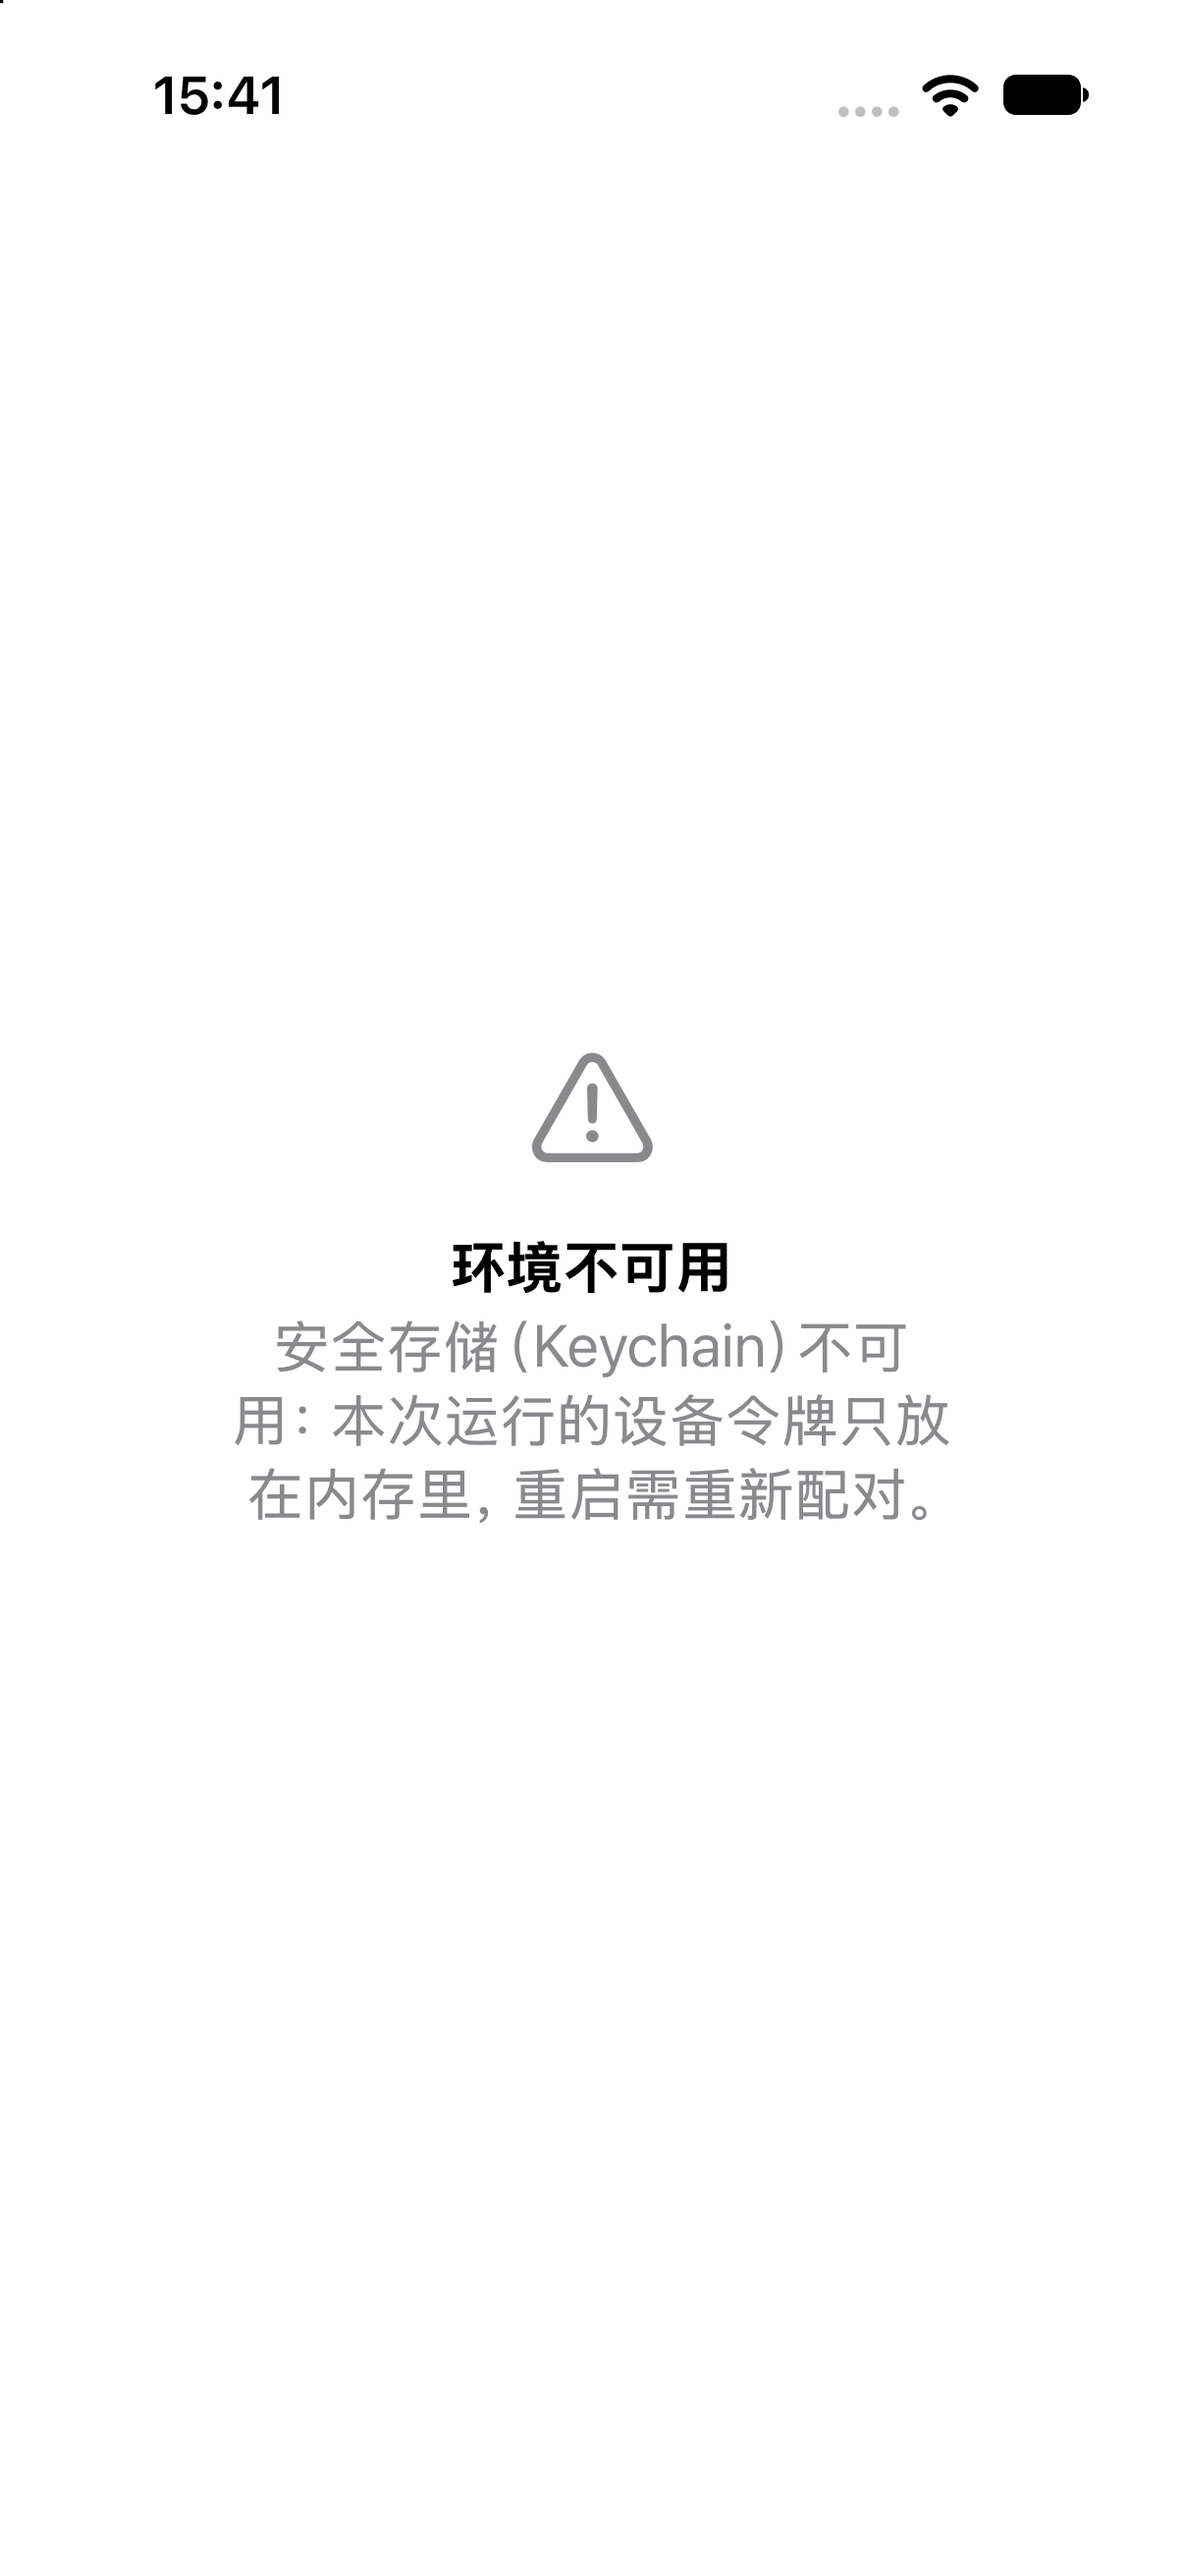
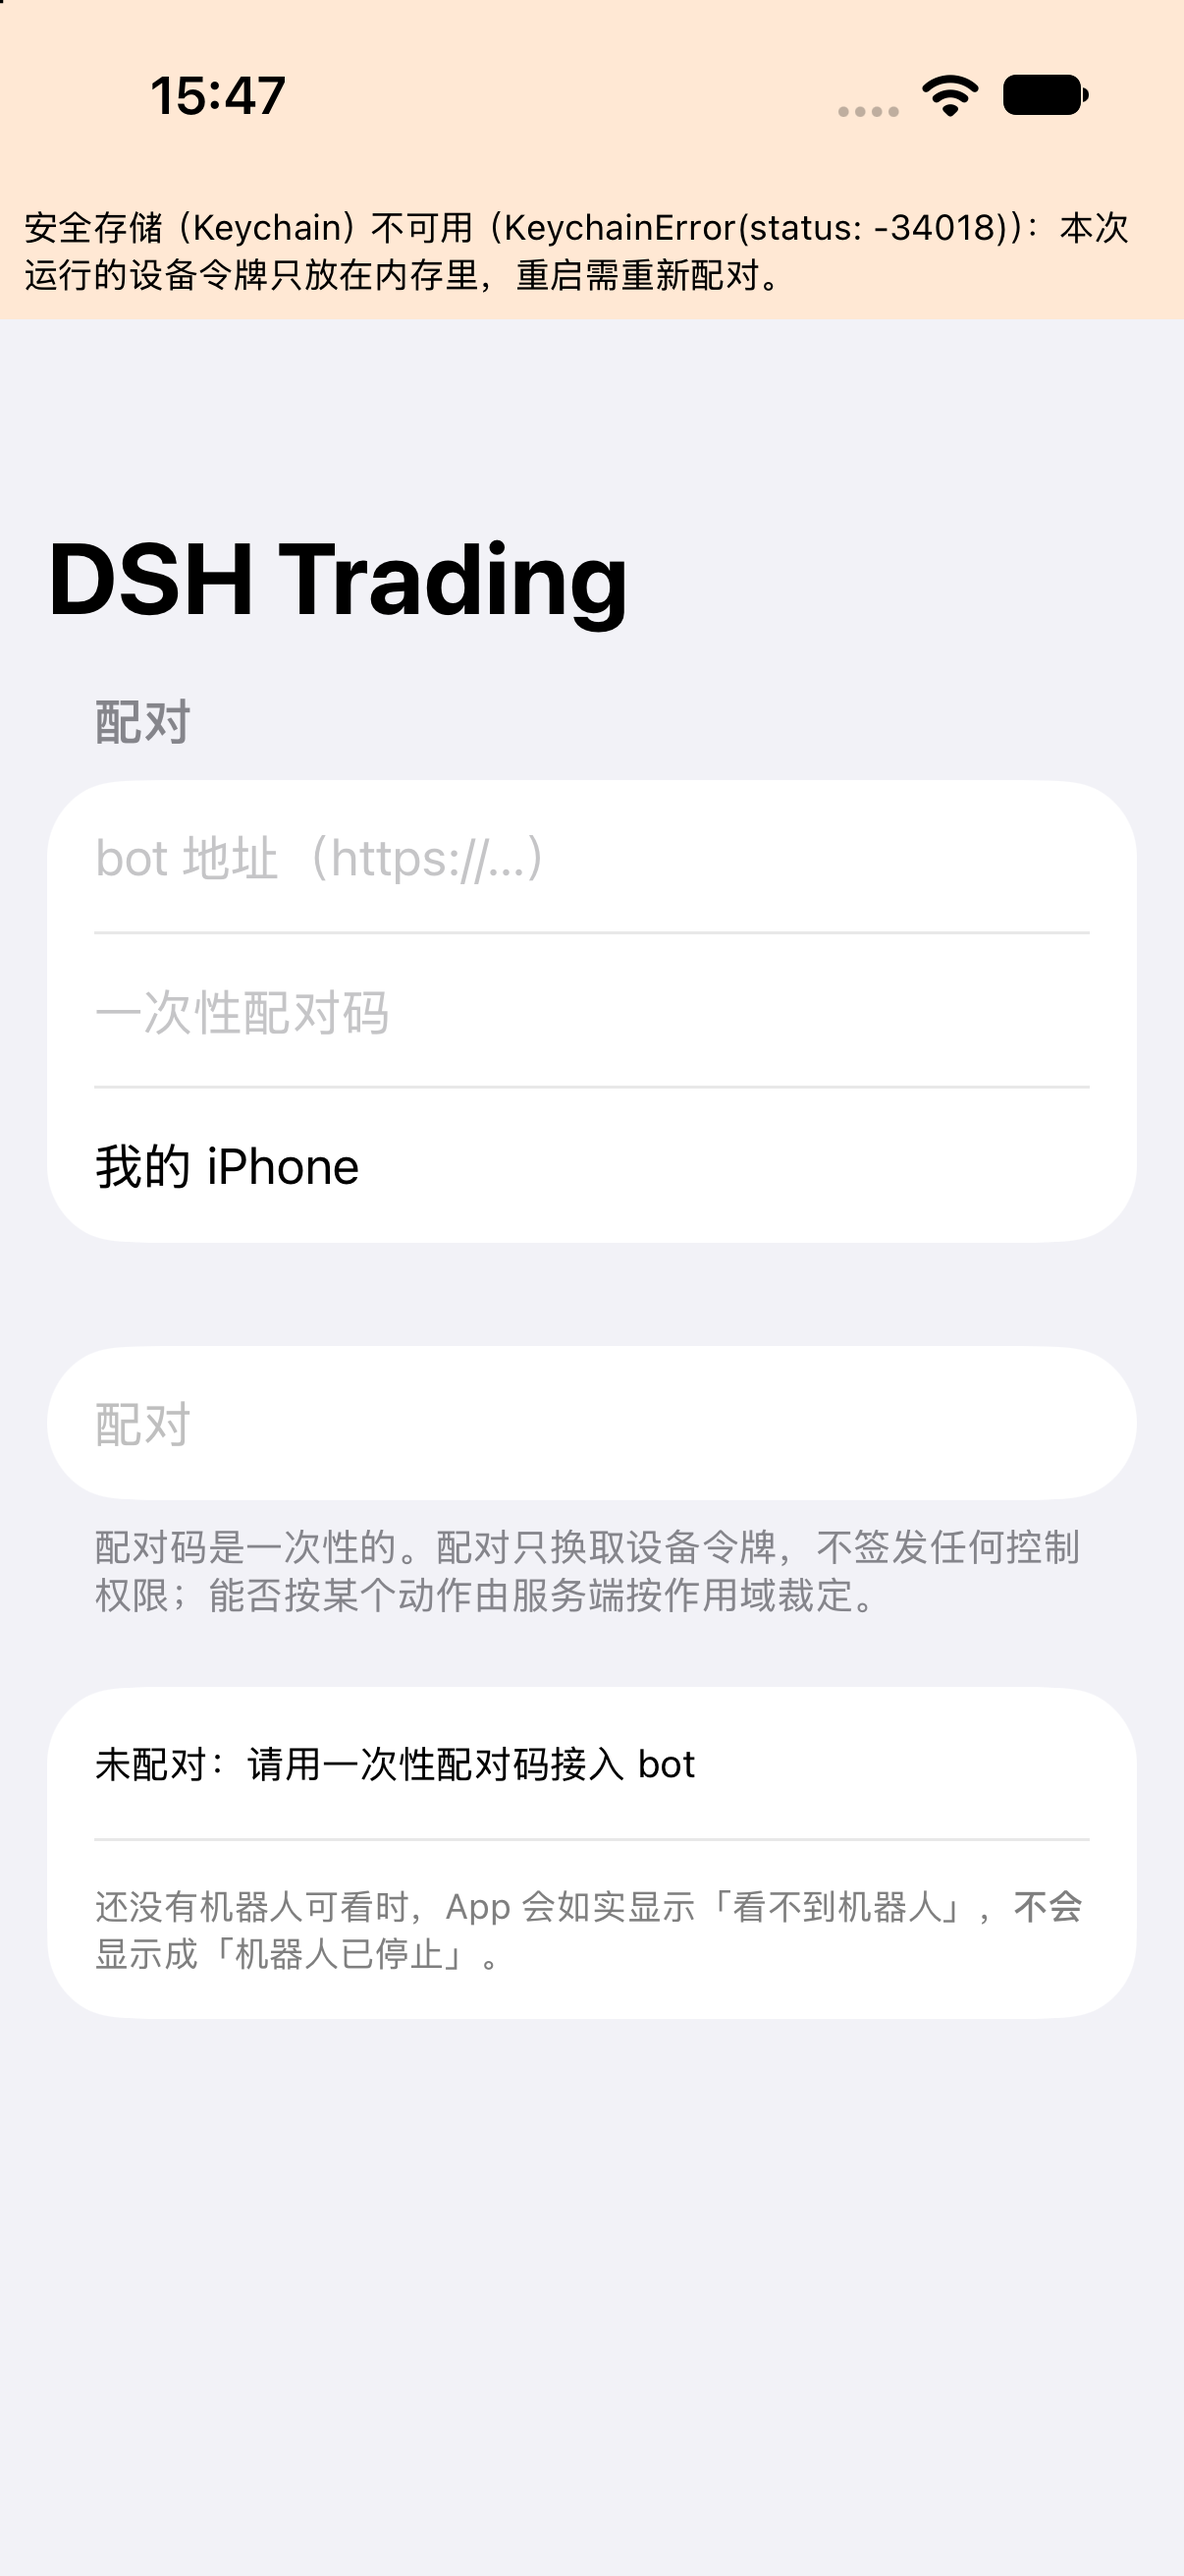
fix(ios-native): 组合根降级语义、UTF-16 长度等价与文档去写死计数
- Keychain 不可用拆成 environmentProblem(致命)/environmentWarning(降级)：内存回退不再挡住 fixtures 与观测面
  （实测横幅 KeychainError -34018 errSecMissingEntitlement，CODE_SIGNING_ALLOWED=NO 无 entitlement）
- 卡片侧长度判定改用 utf16.count 以贴合 TS String.length，补边界向量
- Owning Note / current-state / mobile-app-plan / README 去掉写死计数（改指向可复核生成器）

diff --git a/apps/ios-native/Sources/App/AppEnvironment.swift b/apps/ios-native/Sources/App/AppEnvironment.swift
@@ -98,13 +98,10 @@ public final class AppEnvironment {
     // MARK: - 装配
 
     private func rebuildStore() {
-        guard let session else {
-            store = nil
-            dispatcher = nil
-            return
-        }
         switch mode {
         case .fixtures:
+            // **显式判据**：fixtures 不依赖任何凭据/安全存储 —— 没有 session 也照样装配观测面。
+            // 不靠"Keychain 恰好可用"这种巧合（Lead 裁决 #2）。
             let source = OfflineObservationSource(
                 fetcher: FixtureSnapshotFetcher(clock: clock),
                 persistence: persistence,
@@ -116,7 +113,9 @@ public final class AppEnvironment {
             self.store = store
             self.dispatcher = StoreActionDispatcher(store: store, gate: gate)
         case .live:
-            guard let client = session.apiClient() else {
+            // 生产路径**不放宽 fail-closed**：没有令牌就没有 api client，也就不发匿名请求，
+            // 界面停在配对门（Lead 裁决 #3）。
+            guard let session, let client = session.apiClient() else {
                 store = nil
                 dispatcher = nil
                 return
@@ -142,12 +141,27 @@ public final class AppEnvironment {
         mode == .fixtures ? .simulated : .unknown
     }
 
-    /// 能不能进观测面。**告警不算故障**：Keychain 退回内存只影响"重启后要不要重新配对"，
-    /// 不该把 fixtures 模式（根本不需要令牌）一起挡在门外（IOS-3 在模拟器上实测到过这个缺陷）。
+    /// 能不能进观测面。**告警不算故障**：Keychain 退回内存只影响"重启后要不要重新配对"。
+    /// fixtures 走**显式判据**（只看观测面装配没有，凭据类问题一律不挡）；live 仍要求"已配对 + 有观测源"。
     public var isObserving: Bool {
-        if environmentProblem != nil { return false }
         if mode == .fixtures { return store != nil }
+        if environmentProblem != nil { return false }
         return sessionState.isPaired && store != nil
+    }
+
+    /// 真正**挡路**的故障。fixtures 模式不依赖令牌 ⇒ 任何凭据/存储问题都不挡它（显式判据，不靠巧合）。
+    public var blockingProblem: String? {
+        mode == .fixtures ? nil : environmentProblem
+    }
+
+    /// 顶部横幅：降级告警；fixtures 下连"本来会致命"的凭据问题也只提示、不挡路。
+    public var notices: [String] {
+        var list: [String] = []
+        if let environmentWarning { list.append(environmentWarning) }
+        if mode == .fixtures, let environmentProblem {
+            list.append("夹具模式不依赖设备令牌，已忽略凭据问题：" + environmentProblem)
+        }
+        return list
     }
 
     public func refresh() async {

diff --git a/apps/ios-native/Sources/App/DshTradingNativeApp.swift b/apps/ios-native/Sources/App/DshTradingNativeApp.swift
@@ -25,12 +25,12 @@ struct AppRootView: View {
 
     var body: some View {
         VStack(spacing: 0) {
-            if let problem = environment.environmentProblem {
+            if let problem = environment.blockingProblem {
                 EnvironmentProblemView(message: problem)
             } else {
-                // 告警只提示，不挡路（Keychain 退回内存 ≠ 不能用）。
-                if let warning = environment.environmentWarning {
-                    WarningBanner(message: warning)
+                // 告警只提示，不挡路（Keychain 退回内存 ≠ 不能用；fixtures 更不依赖令牌）。
+                ForEach(environment.notices, id: \.self) { notice in
+                    WarningBanner(message: notice)
                 }
                 if environment.isObserving {
                     ObservationRootView(environment: environment)

diff --git a/docs/current-state.md b/docs/current-state.md
@@ -18,7 +18,7 @@
 | 额度上限 | mandate 侧已成**可执行判据**：缺声明 / Infinity / NaN ⇒ 拒绝开新仓（code=no-declared-limit）；0 是合法声明；只约束新增风险 |
 | 凭据语义 | connector-okx：**存在 credentials seam 即 fail-closed**（不再回落 ambient 环境变量）；仅完全无 seam 时回落 process.env |
 | 驾驶舱 | packages/cockpit：**独立 SPA**（零依赖、不复用 client-ui-*），由 bot 的 edge 行托管；只调 /v1/cards 与 /v1/commands |
-| 移动端（观测端，iOS 原生） | **apps/ios-native**（XcodeGen 生成的独立 Xcode 工程，不进 pnpm workspace）：契约等价实现 + 121 条行为向量 + **35 例 XCTest 机检**（改错必红）；六个分层 scheme 全绿、冷构建 BUILD SUCCEEDED；CI 跑两条纯 Node 门禁（防漂移 + 分层白名单）。见 apps/ios-native/README.md |
+| 移动端（观测端，iOS 原生） | **apps/ios-native**（XcodeGen 生成的独立 Xcode 工程，不进 pnpm workspace）：契约等价实现 + 行为向量 + **XCTest 机检**（向量/用例数随契约扩展，不写死；改错必红）；六个分层 scheme 全绿、冷构建 BUILD SUCCEEDED；CI 跑两条纯 Node 门禁（防漂移 + 分层白名单）。见 apps/ios-native/README.md |
 | 移动端（Expo/RN 旧工程） | apps/mobile（独立 npm 工程）：契约 ./core 入口 + 配对 + SecureStore + 首屏流程；60 例测试 + Metro 真打包 599 modules。（与原生侧**并存**，去留待裁决）|
 | systemd 台架 | scripts/systemd-units-check.mjs（六类静态判据，退出码即结论）+ 人执行安装清单（deploy/README.md）。**本机无 systemd，安装未做** |
 | 假刹车修复 | edge kill 状态写 0o640（组可读）+ 读取端仅 ENOENT 视为未 kill（EACCES/坏 JSON ⇒ 已 kill 且已暂停）；复现 `pnpm --filter @dshtrading/tradectl exec vitest run test/edge.test.ts test/degradation.test.ts`（38 例，含 chmod 000 端到端）|
@@ -52,7 +52,7 @@
     pnpm wiring:ledger                                        # 工厂接线台账
     node scripts/systemd-units-check.mjs                      # 单元静态校验（退出码即结论）
     cd apps/mobile && npx vitest run && npx tsc --noEmit      # 移动端（Expo/RN）
-    cd apps/ios-native && ./scripts/test-contract.sh          # 移动端（原生）：契约防漂移机检，35 例
+    cd apps/ios-native && ./scripts/test-contract.sh          # 移动端（原生）：契约防漂移机检
     node scripts/ios-native/check-contract-drift.mjs           # 同上判据的纯 Node 版（CI 用）
     node scripts/ios-native/check-swift-layering.mjs           # Swift 分层白名单（含 Domain 的 Observation 宏）
 

diff --git a/docs/client/mobile-app-plan.md b/docs/client/mobile-app-plan.md
@@ -11,10 +11,10 @@
 - **形态**：由 XcodeGen 从 `project.yml` 生成工程，**独立工程、不进 pnpm workspace**（与 desktop/ 同一先例）；
   **一个子目录 = 一个 framework target**（Contract / Transport / Domain / Features / Alerts / Offline / App），
   层间依赖由**编译器**强制；`*.xcodeproj` / `build` / `Generated` 等生成物不入库。
-- **契约**：Swift 侧是 `packages/contract/src` 的等价实现，由**机检**绑定 —— 生成器导出 121 条行为向量，
-  `DshTradingContractTests` 35 例逐字段/逐向量断言；CI 侧另有两条**纯 Node** 门禁
+- **契约**：Swift 侧是 `packages/contract/src` 的等价实现，由**机检**绑定 —— 生成器从 TS 契约导出行为向量
+  （条数随契约扩展，不写死），`DshTradingContractTests` 逐字段/逐向量断言；CI 侧另有两条**纯 Node** 门禁
   （`scripts/ios-native/check-contract-drift.mjs`、`check-swift-layering.mjs`），不需要 Xcode。
-- **已实测**：冷构建 `BUILD SUCCEEDED`（0 error），六个分层 scheme 全绿，契约机检 35 例 0 失败，
+- **已实测**：冷构建 `BUILD SUCCEEDED`（0 error），六个分层 scheme 全绿，契约机检 0 失败，
   故意改错必红、改回必绿。
 - **工程细节之家**：[apps/ios-native/README.md](../../apps/ios-native/README.md)（构建命令、冻结符号表、finding、未验证项）。
 - **未验证**：真机、APNs/FCM 推送、生物识别设备验证、弱网、沙箱外的 `xcodebuild test`。
@@ -45,7 +45,7 @@
 |---|---|---|---|
 | **保留两者并行** | 两份客户端壳长期维护；契约面每次变更要过两套机检；CI 两条 job | 风险最低、不丢已有工作；可先让原生侧跑通真机再收口 | owner（产品定位） |
 | **以 A 为准，B 退役** | 需确认 B 没有 A 还不具备的能力（真机签名/推送/生物识别设备验证都未做，所以不是"B 独有"）；退役动作本身需一次性 PR | 单一客户端形态，维护面减半 | owner + 一次退役 PR |
-| **以 B 为准，A 退役** | 放弃本轮原生的分层/编译期强制与 35 例契约机检；与"观测端只读、不得影响执行"的定位需要重新对齐 | 保留 Expo 的多端能力 | owner（产品定位） |
+| **以 B 为准，A 退役** | 放弃本轮原生的分层/编译期强制与契约机检；与"观测端只读、不得影响执行"的定位需要重新对齐 | 保留 Expo 的多端能力 | owner（产品定位） |
 
 **本轮不做任何删除**：`apps/mobile/**` 保持原样，A 与 B 并存，去留由人裁决。
 

diff --git a/.agents/notes/implemented/architecture/2026-10-01-mobile-app-and-contract-core-entry.md b/.agents/notes/implemented/architecture/2026-10-01-mobile-app-and-contract-core-entry.md
@@ -23,7 +23,8 @@ Status: implemented
   工程细节、构建命令与冻结符号表之家是 [apps/ios-native/README.md](../../../../apps/ios-native/README.md)。
 - **契约实现方式**：`packages/contract/src` 的 TS 是**唯一权威**，Swift 侧是等价实现，
   两边由**机检**绑定：`apps/ios-native/scripts/gen-contract-snapshot.mjs` 从 TS 运行期真值导出
-  常量、封闭枚举与**121 条行为向量**；`DshTradingContractTests`（35 例，macOS 逻辑测试）逐字段比对并逐条重放。
+  常量、封闭枚举与**行为向量**（条数由生成器从 TS 契约导出，随契约扩展，不写死）；
+  `DshTradingContractTests`（macOS 逻辑测试）逐字段比对并逐条重放，重放入口见 [apps/ios-native/README.md](../../../../apps/ios-native/README.md)。
   纯 Node 的 `scripts/ios-native/check-contract-drift.mjs` 把同一批判据带进 CI（不需要 Xcode）。
 - **契约包的客户端入口仍然保留**：`@dshtrading/contract/core` 导出
   version/scopes/cards/push/confirm/offline/source-guard 且**排除 `ids.ts`**（RN 与任何 JS 客户端可用）；
@@ -37,8 +38,9 @@ Status: implemented
 - 本机工具链：Xcode 27.0（27A266a）/ iOS SDK 27.0 / Swift 6.4 / XcodeGen 2.45.3（2026-10-02 实测）。
 - `apps/ios-native` 冷构建 `xcodebuild -scheme DshTradingNative -sdk iphonesimulator build` ⇒
   **BUILD SUCCEEDED**（0 error）；六个分层 scheme 全部 BUILD SUCCEEDED（2026-10-02 实测）。
-- 契约机检 35 例 0 失败；**故意改错必红**：让 `grantableByDefault` 放行 control ⇒ 6 例红，
-  `cardLimits.maxFields` 24→25 ⇒ 1 例红，改回后 35 例全绿且源文件逐字节还原（2026-10-02 实测）。
+- 契约机检全绿；**故意改错必红**：让 `grantableByDefault` 放行 control、把 `cardLimits.maxFields` 从 24 改成 25，
+  断言都会变红；改回后全绿且源文件逐字节还原（2026-10-02 实测）。红/绿证据与重放命令见
+  apps/ios-native/README.md 的"契约防漂移机检"一节。
 - `scripts/ios-native/check-contract-drift.mjs` 与 `check-swift-layering.mjs` 同样验证过「改错必红」（同上日期）。
 - `apps/mobile`（Expo/RN）的落仓事实与工程实测之家是 [docs/client/mobile-app-plan.md](../../../../docs/client/mobile-app-plan.md)。
 

diff --git a/apps/ios-native/docs/evidence/README.md b/apps/ios-native/docs/evidence/README.md
@@ -95,6 +95,27 @@ fixtures 模式不依赖令牌，不应被它挡住；live 模式也应在配对
 
 在修好之前，本目录**不提供**五张情形截图 —— 截图必须反映真实观测面，不能用别的屏冒充。
 
+### 试过并**失败**的绕过（记录在此，别重复走）
+
+给已构建的 .app 补一份 entitlements（application-identifier + keychain-access-groups）后
+codesign --force --sign - 重签，再 install + launch：
+结果 **启动直接失败**（simctl launch 返回 Simulator device failed to launch … No such
+process），截图只剩主屏。已回滚（重新 build 恢复 linker-signed 产物），相关临时文件已删除。
+结论：这条路走不通，**必须改源码**（内存回退不该 fatal）。
+
+### 待补：五张情形截图与判据对照表（等 IOS-1 修复后采集）
+
+| 截图 | 夹具情形 | 它必须证明的判据 |
+|---|---|---|
+| running.png | --scenario running | 看得见 + 运行中 + 依赖正常；持仓/订单/额度/告警/新鲜度都有值 |
+| restricted.png | --scenario restricted | **看得见 + 运行中但禁止新增仓位**（与"已停止"不同屏） |
+| stopped.png | --scenario stopped | **机器人已停止**（与"看不见"必须是两种显示） |
+| unreachable.png | --scenario unreachable | **看不到机器人**（不得显示成"已停止"） |
+| unknown-enum.png | --scenario unknown-enum | 未知类型/未知动作 ⇒ 原样列出且**禁用全部动作**（fail-closed） |
+
+其中 stopped.png 与 unreachable.png 需**并排**展示，作为
+「App 看不到机器人 ≠ 机器人已停止」的直接证据（本仓不变量 7）。
+
 ### 未验证项
 
 - 五张情形截图：等组合根接线（IOS-1）后补；判据是上表"观测端应当显示"一列肉眼可辨。
